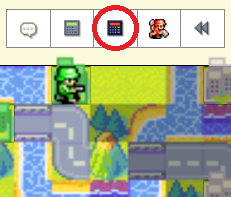
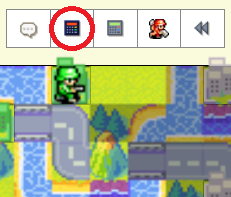
Added calc to move planner

Changed region(s): [[0.2121, 0.0, 0.6061, 0.2741], [0.4545, 0.0914, 0.5455, 0.1827]]

diff --git a/scripts/calc_plus.js b/scripts/calc_plus.js
@@ -775,6 +775,7 @@ class DamageCalculator {
         this.zindex = Z_INDEX;
         this.clickSelectMode = 'N'; //N: None, A: Attacker, D: Defender
         this.clickedUnit = null;
+        this.clickEvent = false;
         this.isMenuOpen = {
             'select-co': false,
             'select-terrain': false,
@@ -894,86 +895,47 @@ class DamageCalculator {
         }
     }
 
-    getPlayers() {
-        let players = [];
-        const playerElements = document.getElementsByClassName('player-overview-container');
-    
-        for (const element of playerElements) {
-            players.push(element.id.replace('player', ''));
+    getData(unitID) {
+        //get game data
+        let regex = /unitsInfo = (.*?);/;
+        let match = regex.exec(document.documentElement.innerHTML);
+        const units = JSON.parse(match[1]);
+
+        regex = /terrainInfo = (.*?);/;
+        match = regex.exec(document.documentElement.innerHTML);
+        const terrain = JSON.parse(match[1]);
+
+        regex = /buildingsInfo = (.*?);/;
+        match = regex.exec(document.documentElement.innerHTML);
+        const buildings = JSON.parse(match[1]);
+
+        regex = /playersInfo = (.*?);/;
+        match = regex.exec(document.documentElement.innerHTML);
+        const players = JSON.parse(match[1]);
+
+        //Get clicked unit
+        const unit = units[unitID];
+
+        //Get clicked tile
+        const tile = terrain[unit.units_x][unit.units_y] || buildings[unit.units_x][unit.units_y];
+
+        //Get player
+        const player = players[unit.units_players_id];
+
+        if (unit && tile && player) {
+            this.clickedUnit = {
+                "cities": player.other_buildings-player.labs-player.towers,
+                "co": {"co_name": player.co_name, "co_id": player.players_co_id},
+                "country": {"code": player.countries_code, "name": player.countries_name.replace(' ', '').toLowerCase()},
+                "funds": player.players_funds,
+                "hp": unit.units_hit_points,
+                "power": player.players_co_power_on,
+                "terrain": {"terrain_name": tile.terrain_name, "terrain_id": tile.terrain_id, "terrain_defense": tile.terrain_defense},
+                "towers": player.towers,
+                "unit": {"units_ammo": unit.units_ammo, "units_name": unit.units_name, "units_id": unit.generic_id}
+            };
         }
-    
-        return players;
     }
-
-    async getData(unitID) {
-        return new Promise((resolve, reject) => {
-            let playerID = null;
-            const request = new XMLHttpRequest();
-            request.open("POST", "/api/game/fetch_game_viewer_data.php", true);
-            request.setRequestHeader("Content-Type", "application/json");
-            request.onreadystatechange = () => {
-                if (request.readyState === XMLHttpRequest.DONE) {
-                    if (request.status === 200) {
-                        const response = JSON.parse(request.responseText);
-
-                        //Get clicked unit
-                        const unit = response.units[unitID];
-
-                        //Get clicked tile
-                        const tile = response.terrain[unit.units_x][unit.units_y] ? response.terrain[unit.units_x][unit.units_y] : response.buildings[unit.units_x][unit.units_y];
-
-                        //Get player
-                        const player = response.players[unit.units_players_id];
-
-                        if (unit && tile && player) {
-                            this.clickedUnit = {
-                                "cities": player.other_buildings-player.labs-player.towers,
-                                "co": {"co_name": player.co_name, "co_id": player.players_co_id},
-                                "country": {"code": player.countries_code, "name": player.countries_name.replace(' ', '').toLowerCase()},
-                                "funds": player.players_funds,
-                                "hp": unit.units_hit_points,
-                                "power": player.players_co_power_on,
-                                "terrain": {"terrain_name": tile.terrain_name, "terrain_id": tile.terrain_id, "terrain_defense": tile.terrain_defense},
-                                "towers": player.towers,
-                                "unit": {"units_ammo": unit.units_ammo, "units_name": unit.units_name, "units_id": unit.generic_id}
-                            };
-                        }
-                        resolve(); // Resolve the Promise when the calculation is done
-                    } else {
-                        console.error("Calc-Plus Error:", request.status);
-                        reject(request.status); // Reject the Promise in case of an error
-                    }
-                }
-            };
-            playerID = this.getPlayers()[0];
-            const data = {
-                playersID: playerID,
-                objects: ["units", "players", "buildings", "terrain"]
-            };
-            request.send(JSON.stringify(data));
-        });
-    }
-
-    // getUnitFromCursorPosition(gamemap, cursorX, cursorY){
-    //     console.log('test');
-    //     let unitElement = null;
-    //     //if no units are available, return null
-    //     const units = gamemap.getElementsByClassName('game-unit');
-    //     if (units.length === 0) {
-    //         return unitElement;
-    //     }
-
-    //     //find unit where cursor is in bounding rect
-    //     for (const unit of units) {
-    //         const rect = unit.getBoundingClientRect();
-    //         if (cursorX >= rect.x && cursorX <= rect.x + rect.width && cursorY >= rect.y && cursorY <= rect.y + rect.height) {
-    //             unitElement = unit;
-    //             break;
-    //         }
-    //     }
-
-    //     return unitElement;
-    // }
 
     //add calc
     async buildCalculator() {
@@ -1068,7 +1030,12 @@ class DamageCalculator {
                     Damage Calculator +
                     <div class="reverse-info-box calculator-help">
                         ?
-                        <span class="info-box-text">Hold down "A" or "D" while clicking a unit to add it to the calculator</span>
+                        <div class="info-box-text" style="right:0px; width:180px;">
+                            Damage Calculator Plus by Sketch_Turner<br>
+                            <a href="https://github.com/Sketch-Turner/AWBW-Damage-Calculator-Plus#table-of-contents">Tutorial</a><br>
+                            <a href="https://forms.gle/my2XMuUk14ZDjry46">Error Reporting</a><br>
+                            See you on the Global League. Good luck, have fun!!
+                        </div>
                     </div>
                     <span class="close-calc-plus">&#10005;</span>
                 </header>
@@ -1134,33 +1101,41 @@ class DamageCalculator {
 
         //Attack click listener to gamemap. Used to detect unit selections.
         const gamemap = document.getElementById('gamemap');
-        gamemap.addEventListener('mousedown', async (event) => {
+        const gamemapClick = async (event) => {
             if (this.clickSelectMode !== 'N') {
                 event.stopPropagation();
-                let clickedUnit = event.target.closest('.game-unit');
-                //if unable to get unit, try to find based on click position
-                //clickedUnit = clickedUnit ? clickedUnit : this.getUnitFromCursorPosition(gamemap, event.clientX, event.clientY);
-
-                if (clickedUnit) {
-                    await this.getData(clickedUnit.getAttribute('data-unit-id'));
-                    if (this.clickSelectMode === 'A') {
-                        this.currentNode.attacker = JSON.parse(JSON.stringify(this.clickedUnit));
-                        this.currentNode.attackerDisplayHP = this.currentNode.attacker.hp * 10;
-                        this.currentNode.selectingAttacker = false;
+                if (!this.clickEvent) {
+                    this.clickEvent = true;
+    
+                    let clickedUnit = event.target.closest('.game-unit') || event.target.closest('span[id^="unit"]');     
+                    if (clickedUnit) {
+                        // Your existing logic for both mousedown and click events
+                        const id = clickedUnit.getAttribute('data-unit-id') || clickedUnit.id.replace('unit_', '');
+                        this.getData(id);
+                        if (this.clickSelectMode === 'A') {
+                            this.currentNode.attacker = JSON.parse(JSON.stringify(this.clickedUnit));
+                            this.currentNode.attackerDisplayHP = this.currentNode.attacker.hp * 10;
+                            this.currentNode.selectingAttacker = false;
+                        }
+                        if (this.clickSelectMode === 'D') {
+                            this.currentNode.defender = JSON.parse(JSON.stringify(this.clickedUnit));
+                            this.currentNode.defenderDisplayHP = this.currentNode.defender.hp * 10;
+                            this.currentNode.selectingDefender = false;
+                        }
+                        this.clickSelectMode = 'N';
+                        await this.currentNode.refactor({'a_towers': true, 'a_cities': true, 'funds': true, 'power': true, 'co': true, 'd_towers': true, 'd_cities': true}); //if current node calc has changed, need to update all children
+                        this.root.orient(this.root.x, this.root.y);
+                        calcDisplay.innerHTML = this.root.getHTML(); // Update the display
                     }
-                    if (this.clickSelectMode === 'D') {
-                        this.currentNode.defender = JSON.parse(JSON.stringify(this.clickedUnit));
-                        this.currentNode.defenderDisplayHP = this.currentNode.defender.hp * 10;
-                        this.currentNode.selectingDefender = false;
-                    }
-                    this.clickSelectMode = 'N';
-                    await this.currentNode.refactor({'a_towers': true, 'a_cities': true, 'funds': true, 'power': true, 'co': true, 'd_towers': true, 'd_cities': true});//if current node calc has changed, need to update all children
-                    this.root.orient(this.root.x, this.root.y);
-                    calcDisplay.innerHTML = this.root.getHTML(); // Update the display
+                    this.clickEvent = false;
                 }
             }
-        }, true);
-
+        };
+        
+        // Add event listeners for both mousedown and click events
+        gamemap.addEventListener('mousedown', gamemapClick, true); //normal game
+        gamemap.addEventListener('click', gamemapClick, true); //move planner 
+        
         // Attach a single click event listener to the container  
         calcDisplay.addEventListener('click', async (event) => {
             this.bringToFront();
@@ -1537,7 +1512,7 @@ link.href = chrome.runtime.getURL('/scripts/calc_plus.css');
 document.head.appendChild(link);
 
 //Add calc plus button
-const old_dc_button = document.querySelector('.calculator-toggle.game-tools-btn');
+const old_dc_button = document.querySelector('.calculator-toggle.game-tools-btn') || document.querySelector('.calculator-toggle.planner-calc-toggle');
 
 const new_dc_button = `
 <div class="calculator-plus-toggle game-tools-btn" style="border-right: none;">
@@ -1547,7 +1522,7 @@ const new_dc_button = `
     <span class="game-tools-btn-text small_text">Damage Calculator +</span>
 </div>
 `;
-old_dc_button.insertAdjacentHTML('afterend', new_dc_button);
+old_dc_button.insertAdjacentHTML('beforebegin', new_dc_button);
 
 //Add calculator
 let DCP = new DamageCalculator();
